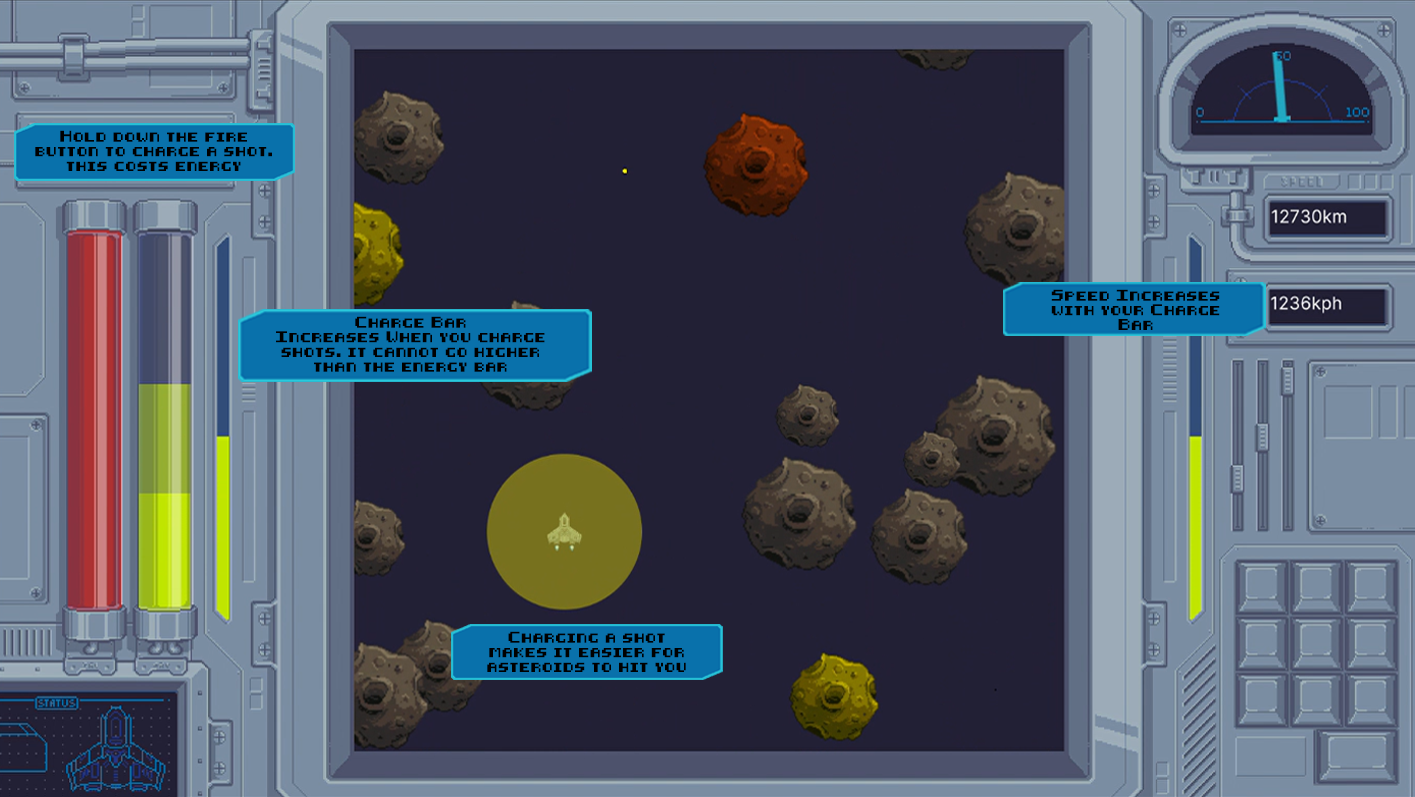
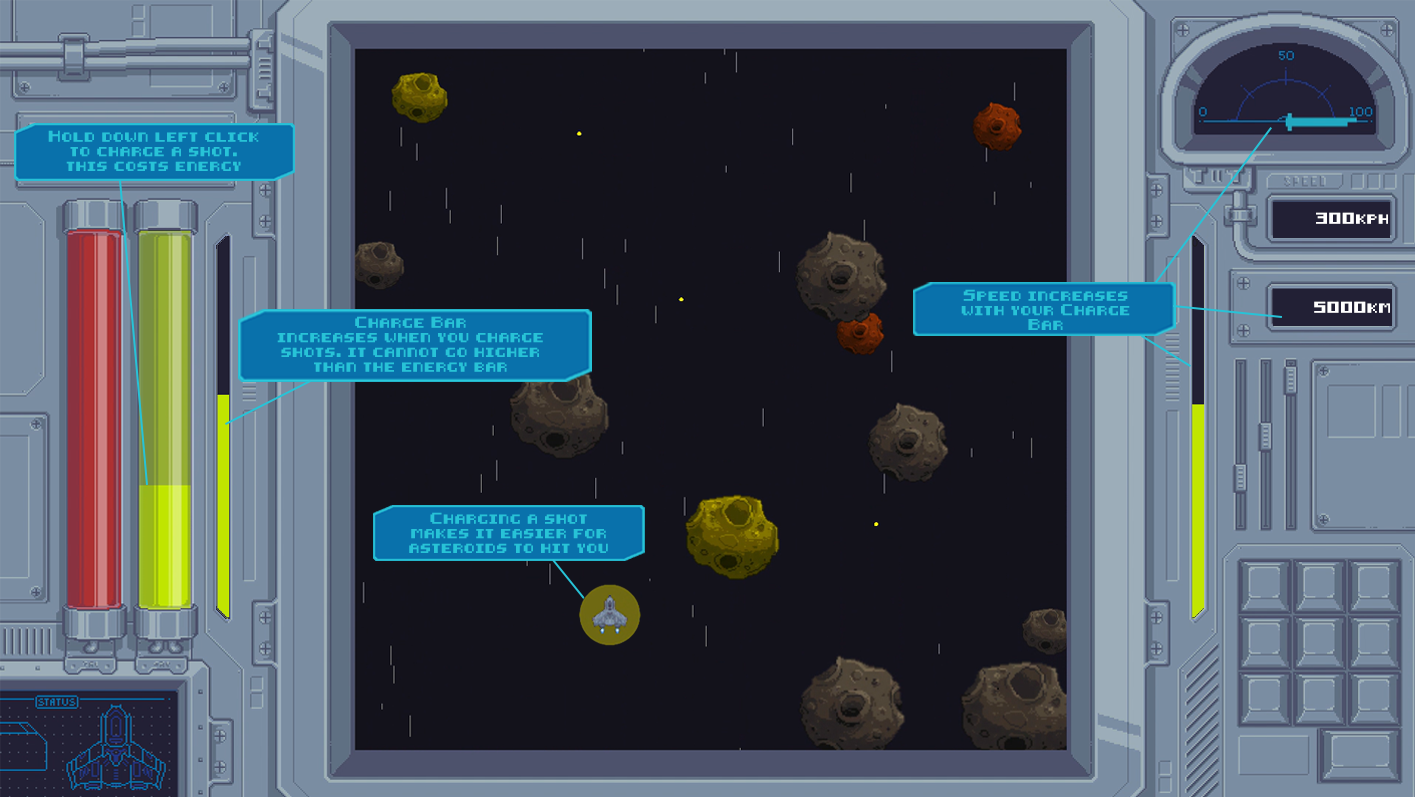
Tutorial Finalized

diff --git a/NoCapstoneGame/Assets/Scripts/UI/TutorialUIScript.cs b/NoCapstoneGame/Assets/Scripts/UI/TutorialUIScript.cs
@@ -35,12 +35,13 @@ public class TutorialUIScript : MonoBehaviour
         endTutorialButton.style.display = DisplayStyle.None;
 
         //https://docs.unity3d.com/Manual/UIE-set-background-images-with-an-image-asset.html
-        backgroundArray = new StyleBackground[3];
+        backgroundArray = new StyleBackground[4];
         backgroundArray[0] = new StyleBackground(spriteArr[0]);
         backgroundArray[1] = new StyleBackground(spriteArr[1]);
         backgroundArray[2] = new StyleBackground(spriteArr[2]);
+        backgroundArray[3] = new StyleBackground(spriteArr[3]);
 
-    //https://docs.unity3d.com/Manual/UIE-set-background-images-with-an-image-asset.html
+        //https://docs.unity3d.com/Manual/UIE-set-background-images-with-an-image-asset.html
         root.style.backgroundImage = backgroundArray[0];
 
         leftButton.clicked += () => TutorialSlideLeft();
@@ -87,7 +88,7 @@ public class TutorialUIScript : MonoBehaviour
     private void TutorialSlideRight()
     {
         Debug.Log("going right");
-        if (backGroundArrayIndex < (backgroundArray.Length - 1))
+        if (backGroundArrayIndex < (backgroundArray.Length - 2))
         {
             backGroundArrayIndex++;
             root.style.backgroundImage = backgroundArray[backGroundArrayIndex];
@@ -95,6 +96,8 @@ public class TutorialUIScript : MonoBehaviour
         }
         else
         {
+            backGroundArrayIndex++;
+            root.style.backgroundImage = backgroundArray[backgroundArray.Length-1];
             endTutorialButton.style.display = DisplayStyle.Flex;
         }
     }

diff --git a/NoCapstoneGame/Assets/Scripts/Managers/SpeedManager.cs b/NoCapstoneGame/Assets/Scripts/Managers/SpeedManager.cs
@@ -153,7 +153,7 @@ public class SpeedManager : MonoBehaviour
         while (Time.time - timeSinceGracePeriodStart <= boostGracePeriodDuration)
         {
             speedAdditionFromBoost = Mathf.Lerp(boostSpeed, 0, (Time.time - timeSinceGracePeriodStart) / boostGracePeriodDuration);
-            yield return new WaitForFixedUpdate;
+            yield return new WaitForFixedUpdate();
         }
         gameManager.ResetEnergy();
         inBoostGracePeriod = false;
